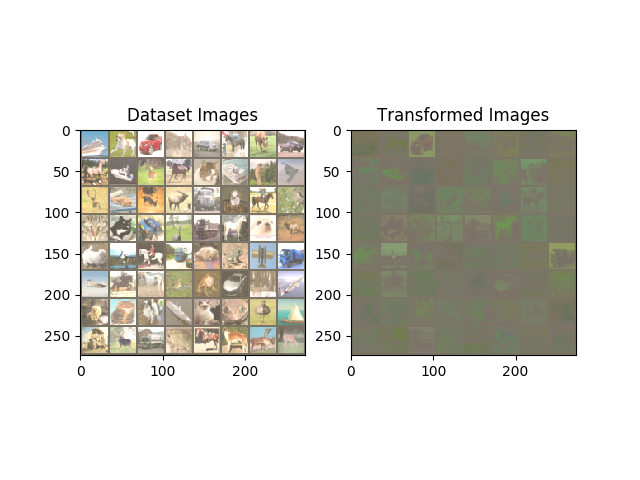
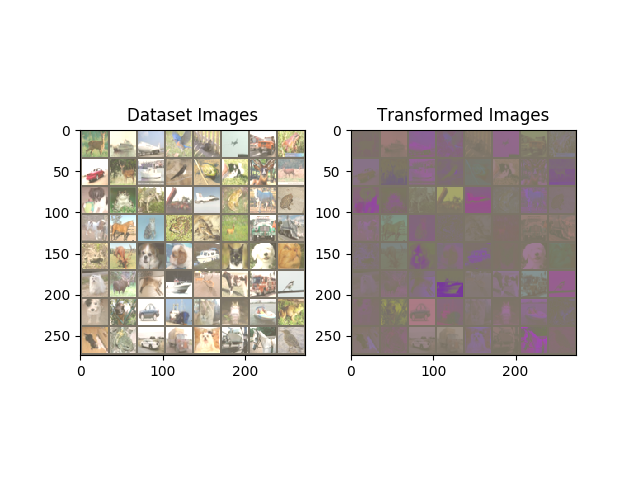
seems to now use resnet, to chunky

Changed region(s): [[0.125, 0.25, 0.5, 0.75], [0.5312, 0.25, 0.9062, 0.75]]

diff --git a/spatial_transformer_tutorial.py b/spatial_transformer_tutorial.py
@@ -12,7 +12,7 @@ import numpy as np
 import argparse
 from torch.optim.lr_scheduler import StepLR
 from transformer import Transformer
-from discriminator import DiscriminatorNet
+from discriminator_resnet import DiscriminatorNet
 from data_utils import train_loader
 from utils import visualize_stn
 
@@ -76,7 +76,7 @@ def main():
     discriminator_opt = optim.SGD(discriminator.parameters(), lr=0.01)
     for epoch in range(1, 100):
         print("epoch", epoch)
-        # train(epoch, device, discriminator, transformer, transformer_opt, discriminator_opt)
+        train(epoch, device, discriminator, transformer, transformer_opt, discriminator_opt)
         # Visualize the STN transformation on some input batch
         torch.save(transformer.state_dict(), "temp_transformer.pt")
         visualize_stn(train_loader=train_loader, temp_model_path="temp_transformer.pt")
